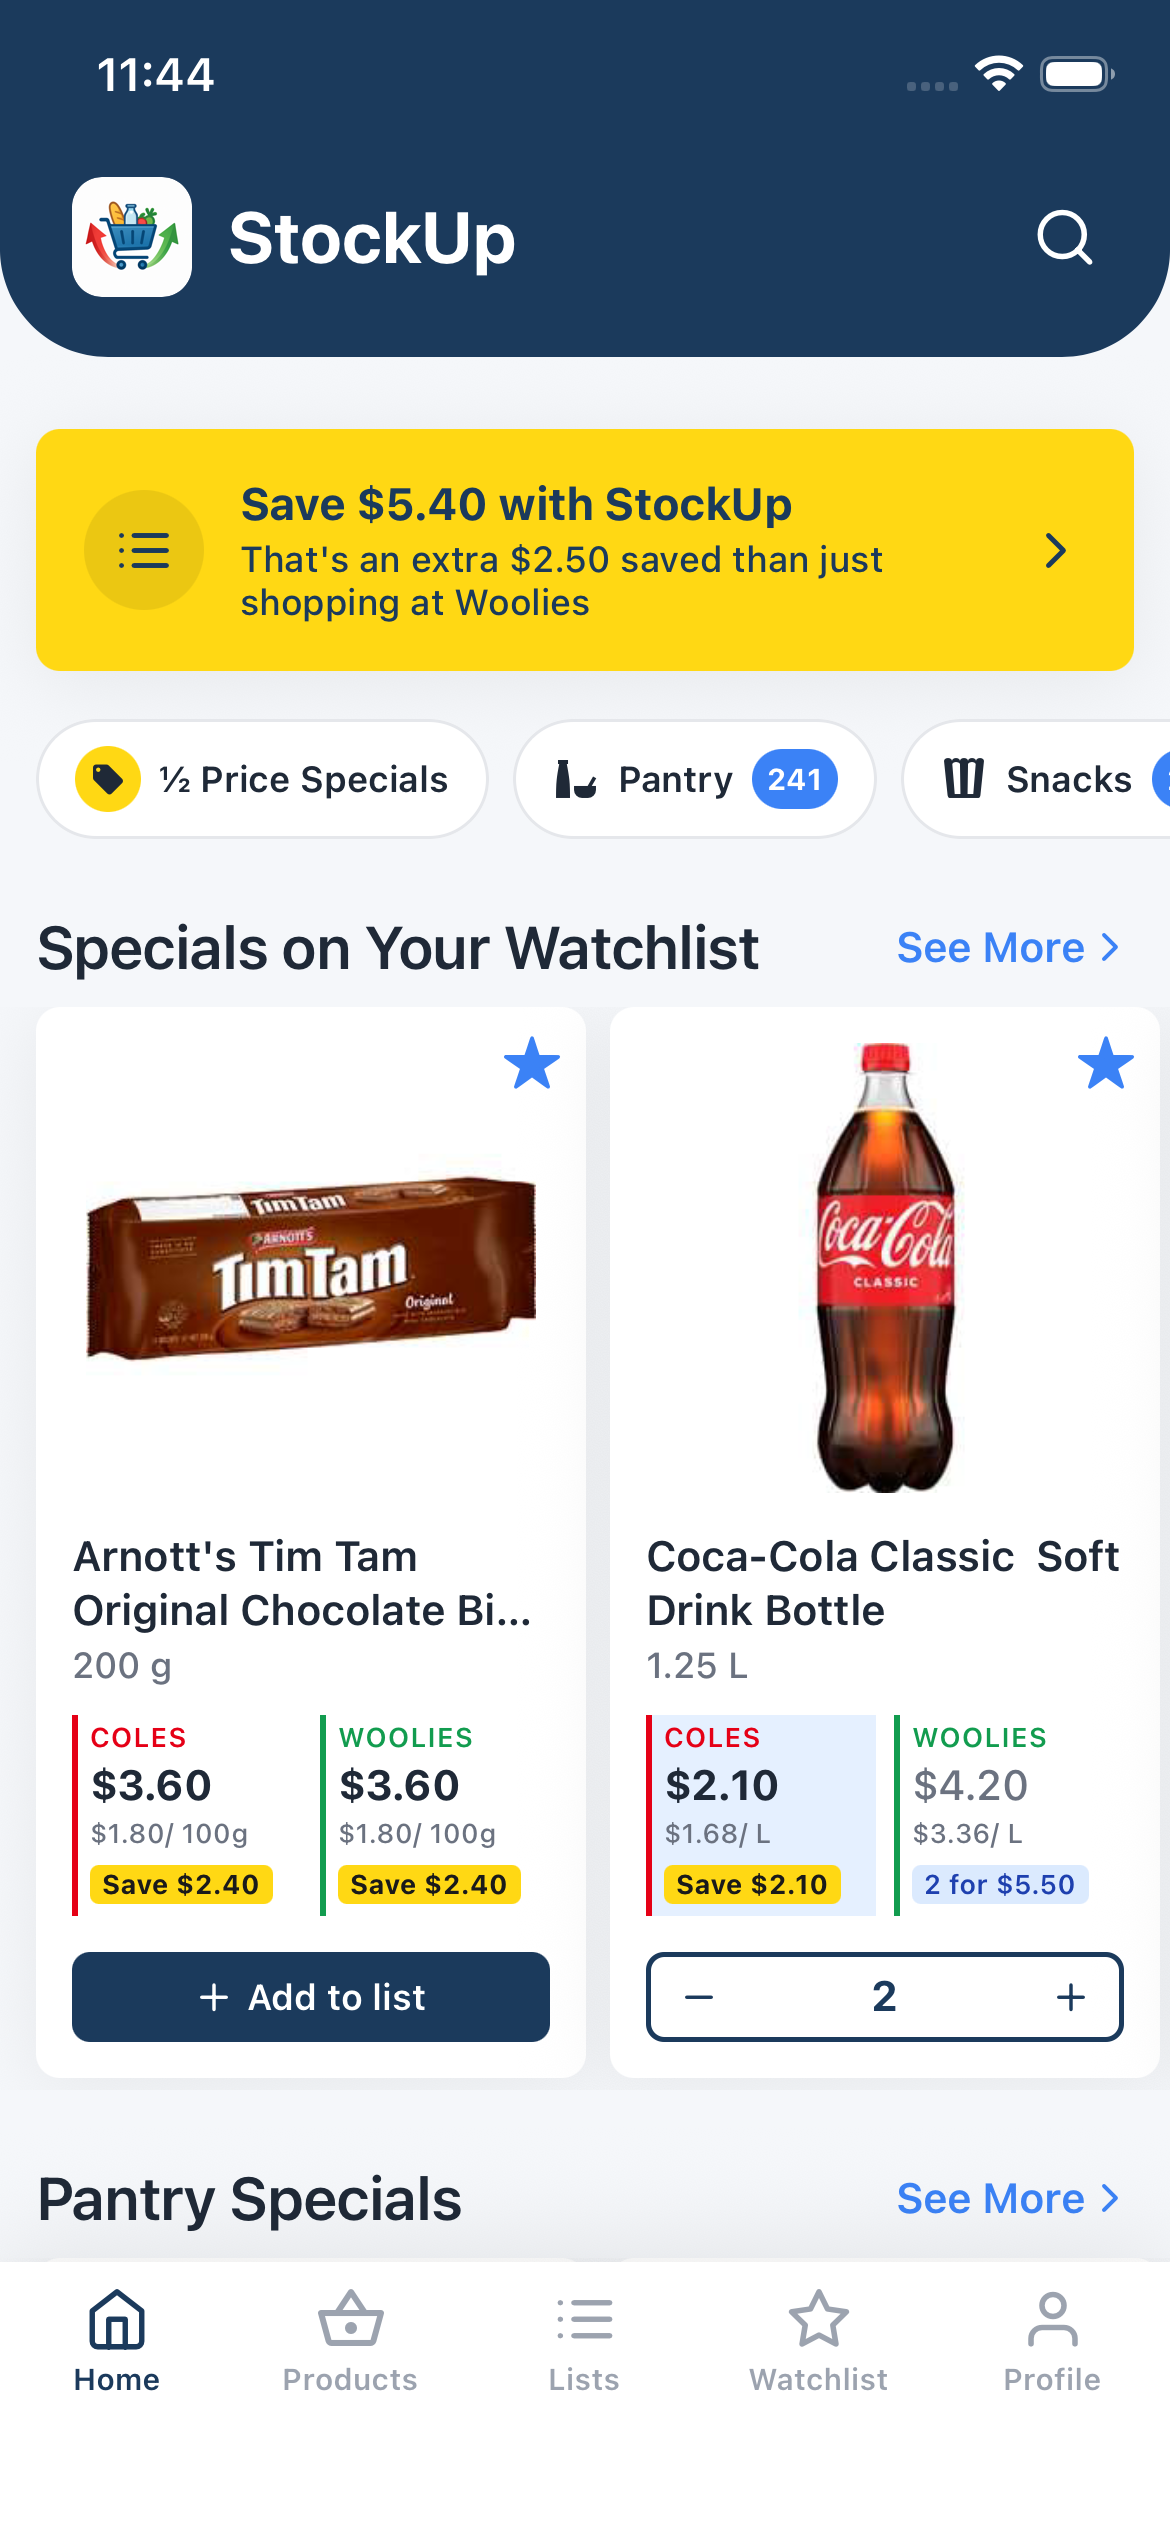
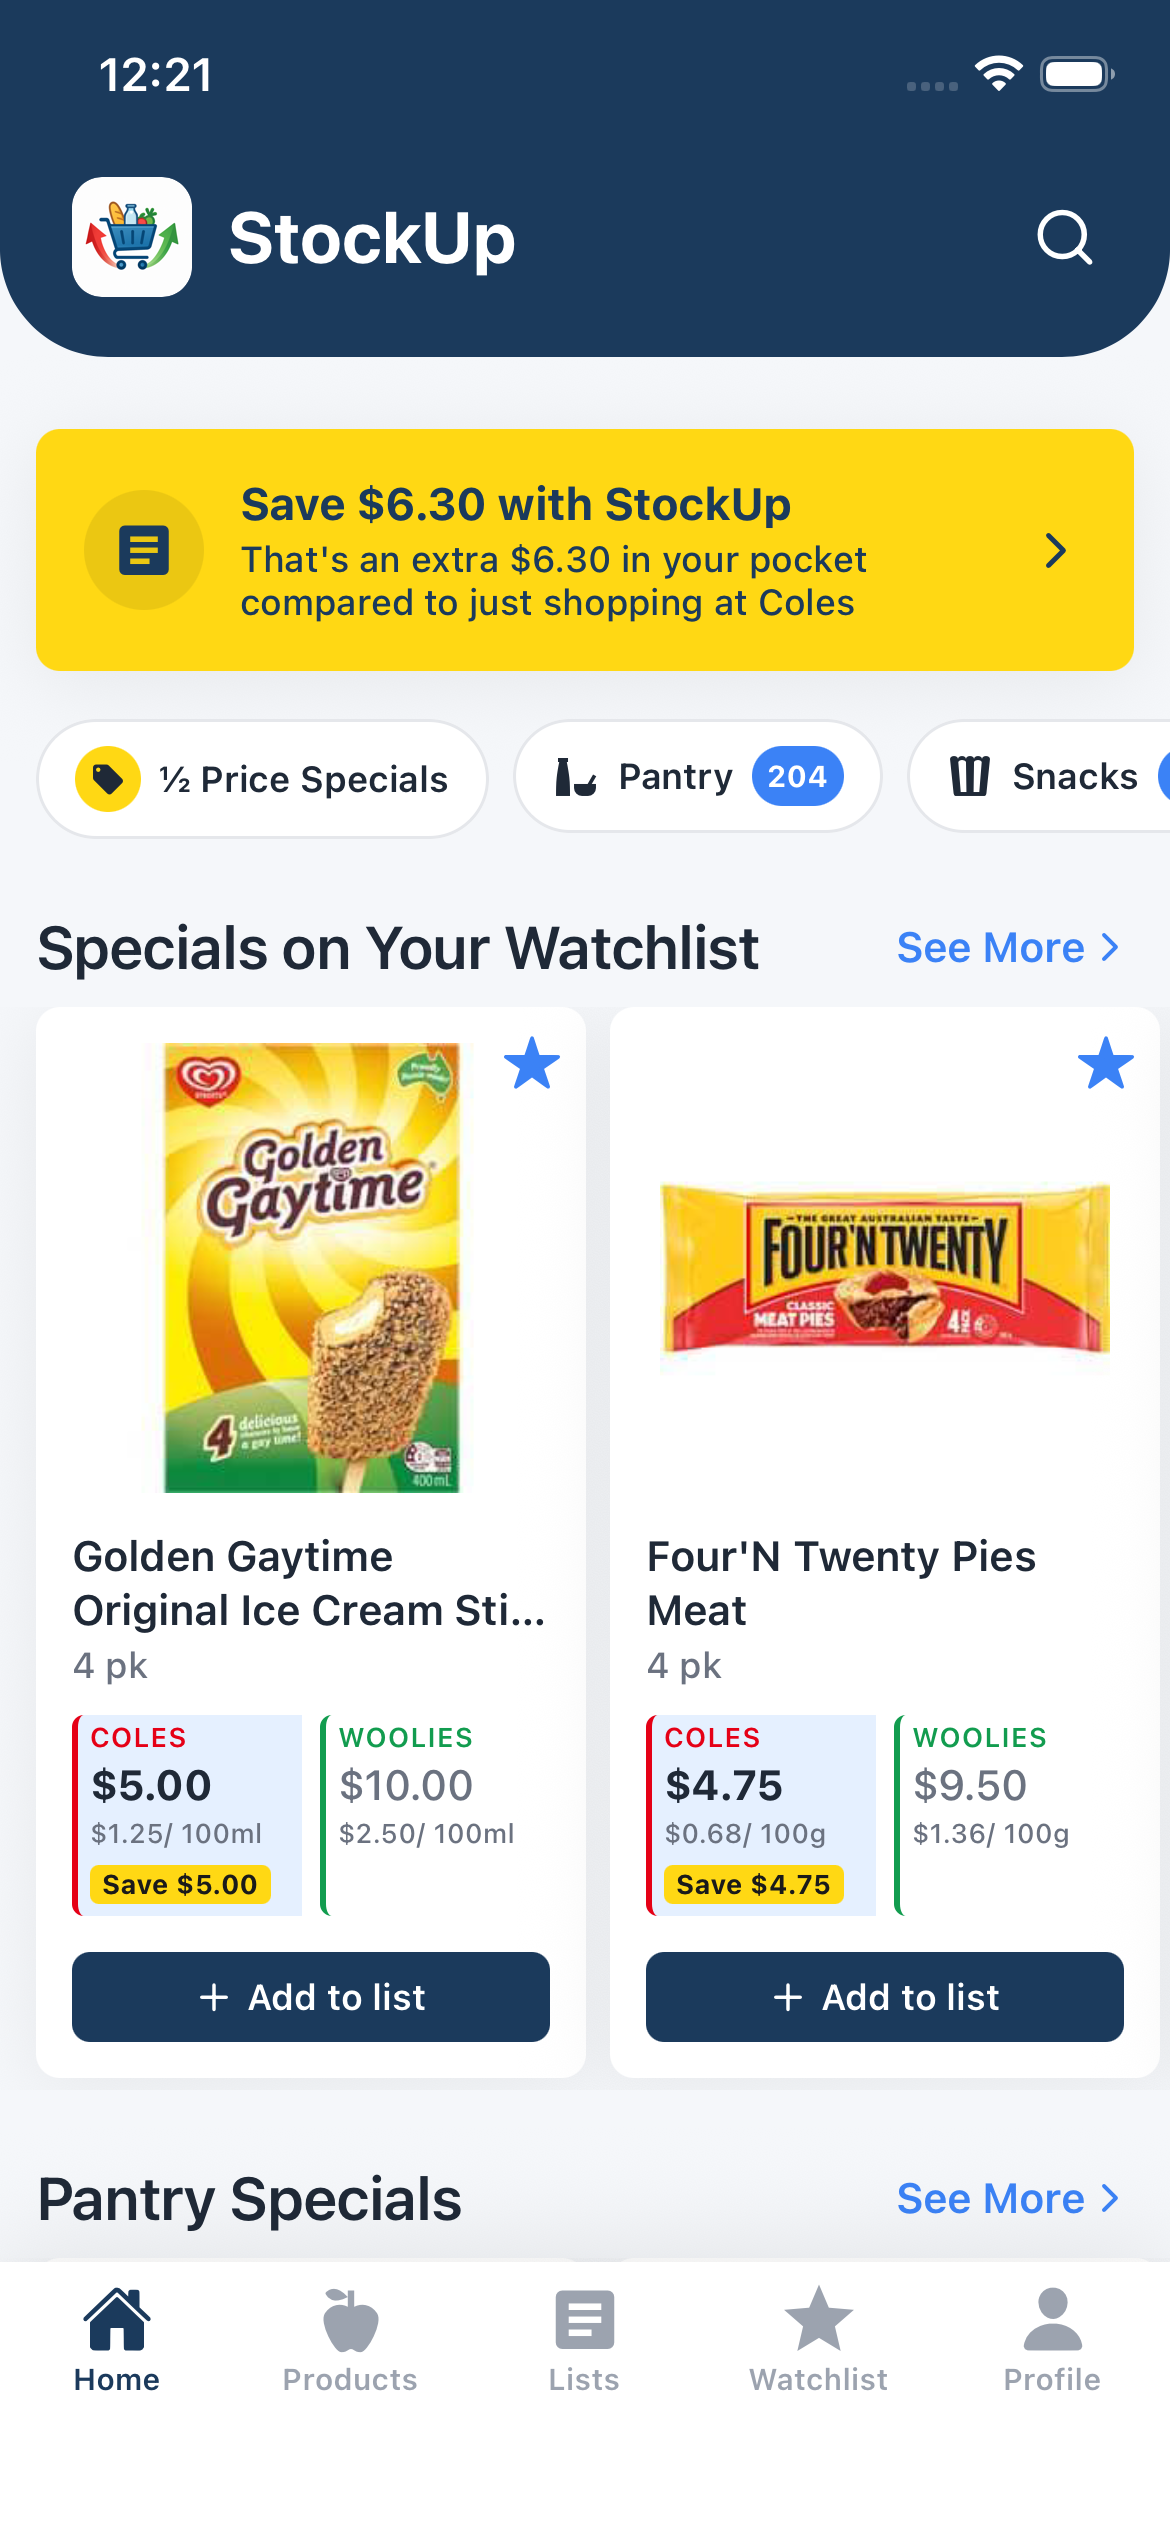
Update website screenshots and floating label values
Replace all app screenshots (except Product Details) with latest v1.3.1
captures. Update floating bubble values: Total Saved to $16.05, Save to
$3.00, and adjust bubble positions.

diff --git a/index.html b/index.html
@@ -81,7 +81,7 @@
           <img src="/assets/Price%20Comparison.png" alt="Price comparison view showing Coles vs Woolworths prices" loading="lazy">
         </div>
         <div class="floating-el bubble-red" style="top:10%" aria-hidden="true">Coles</div>
-        <div class="floating-el bubble-yellow" aria-hidden="true">Save $2.75</div>
+        <div class="floating-el bubble-yellow" aria-hidden="true">Save $3.00</div>
         <div class="floating-el bubble-green" aria-hidden="true">Woolies</div>
       </div>
     </div>
@@ -99,8 +99,8 @@
           <img src="/assets/Shopping%20List.png" alt="Smart shopping list with price comparison and store split" loading="lazy">
         </div>
         <div class="floating-el" style="top:10%;left:-10px;right:auto" aria-hidden="true">🧠 Smart Lists</div>
-        <div class="floating-el bubble-green" style="bottom:28%" aria-hidden="true">✅ Check off as you shop</div>
-        <div class="floating-el bubble-yellow" style="top:auto;bottom:10%" aria-hidden="true">💰 Total Saved: $8.10</div>
+        <div class="floating-el bubble-green" style="bottom:35%" aria-hidden="true">✅ Check off as you shop</div>
+        <div class="floating-el bubble-yellow" style="top:auto;bottom:10%" aria-hidden="true">💰 Total Saved: $16.05</div>
       </div>
     </div>
   </section>
@@ -116,7 +116,7 @@
         <div class="phone">
           <img src="/assets/Watchlist.png" alt="Watchlist view showing tracked products and specials" loading="lazy">
         </div>
-        <div class="floating-el bubble-yellow" style="top:25%" aria-hidden="true">📉 Price Drops</div>
+        <div class="floating-el bubble-yellow" style="top:18%" aria-hidden="true">📉 Price Drops</div>
         <div class="floating-el bubble-red" aria-hidden="true">🔔 Notifications</div>
         <div class="floating-el" style="top:40%" aria-hidden="true">⭐ Watching</div>
       </div>
